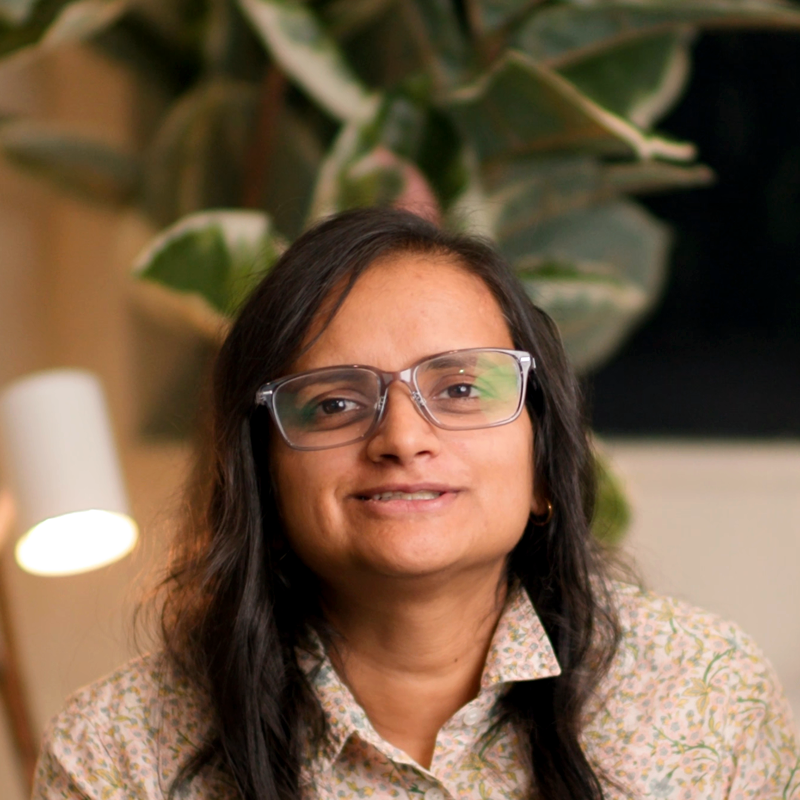
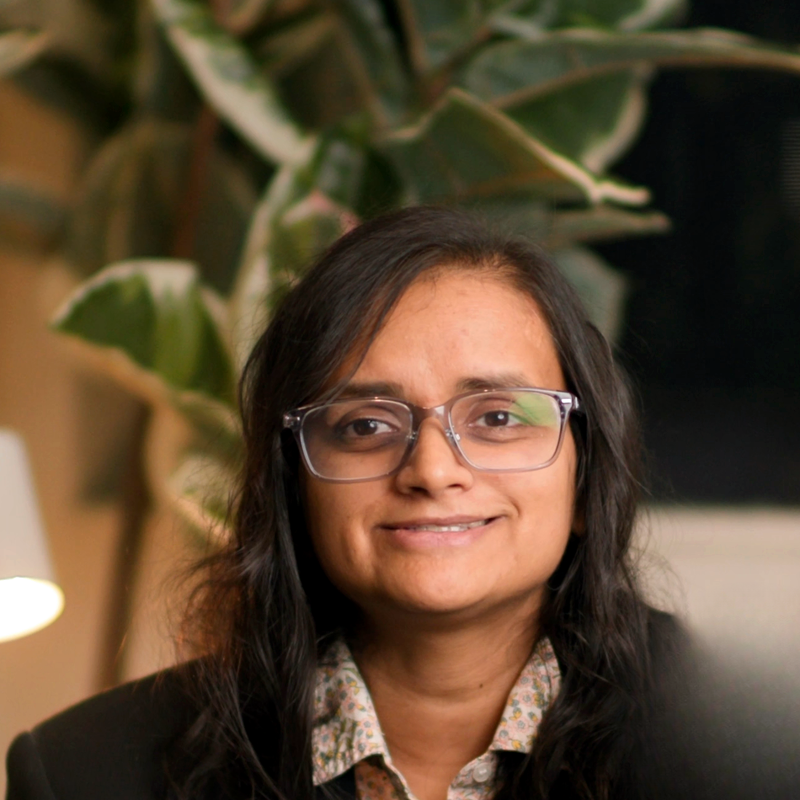
Dr Anu Saxena's portrait, second pass: the open smile at 685.2s
Founder verdict on the first pass: "find one where she is smiling."
Every second of her on-camera tape was scored with a facial-expression
classifier plus smile width and visible teeth; the widest genuine smile
with eyes to camera is tape 01819989 at 685.2s. The microphone pop
filter beside her shoulder was retouched out of the background with an
inpainting model (LaMa); her face, hair and body are the frame as shot.
Same frame as Stef-01/ADHD.

Claude-Session: https://claude.ai/code/session_01FDPyjBmof78hSYS21yRjur

diff --git a/app/about/team.ts b/app/about/team.ts
@@ -82,8 +82,10 @@ export const TEAM: ReadonlyArray<{
     // O90 (founder-directed 2026-08-20): the fourth member. Role and affiliations from
     // her published record (the O58/O71/O88 sourcing in the roster entry); portrait is the
     // founder-supplied O82 photo, centre-cropped to this row's 3:4 convention.
-    // 2026-09-10 (founder-directed): replaced with a still from her ADHD.ME interview footage —
-    // a real frame of her, chosen for the warmer light and expression, cropped to the same 3:4.
+    // 2026-09-10 (founder-directed, second pass: "find one where she is smiling"): a still from
+    // her ADHD.ME interview footage (tape 01819989 at 685.2s), chosen for the open smile. Her face
+    // and body are the frame as shot; the microphone pop filter beside her shoulder was retouched
+    // out of the background with an inpainting model. Cropped to the same 3:4.
     name: "Dr Anu Saxena",
     // Founder consistency pass (2026-08-20): her degrees named the way Dr Anubhav's are —
     // the MD in the role line, and both universities (medicine at ANU, B.Psych (Hons) at

diff --git a/src/demo/roster.ts b/src/demo/roster.ts
@@ -437,8 +437,10 @@ export const clinicians: Clinician[] = [
     reach: "Practice appointments in Double Bay and Hornsby",
     // O82: her portrait, supplied by the founder on her behalf (2026-08-20) — the only route a
     // real person's likeness enters this tree. Until then the monogram was her choice, not a gap.
-    // 2026-09-10 (founder-directed): the file now holds a still from her ADHD.ME interview
-    // footage — a photograph of her, not a generated one — cropped square for the card.
+    // 2026-09-10 (founder-directed, second pass: "find one where she is smiling"): the file holds
+    // a still from her ADHD.ME interview footage (tape 01819989 at 685.2s). Her likeness is the
+    // frame as shot — nothing about her is generated; the microphone pop filter beside her
+    // shoulder was retouched out of the background with an inpainting model. Cropped square.
     image: "/clinicians/anusha-saxena.png",
     acceptingNewPatients: true,
     capacityDeclaredAt: "2026-08-18",
